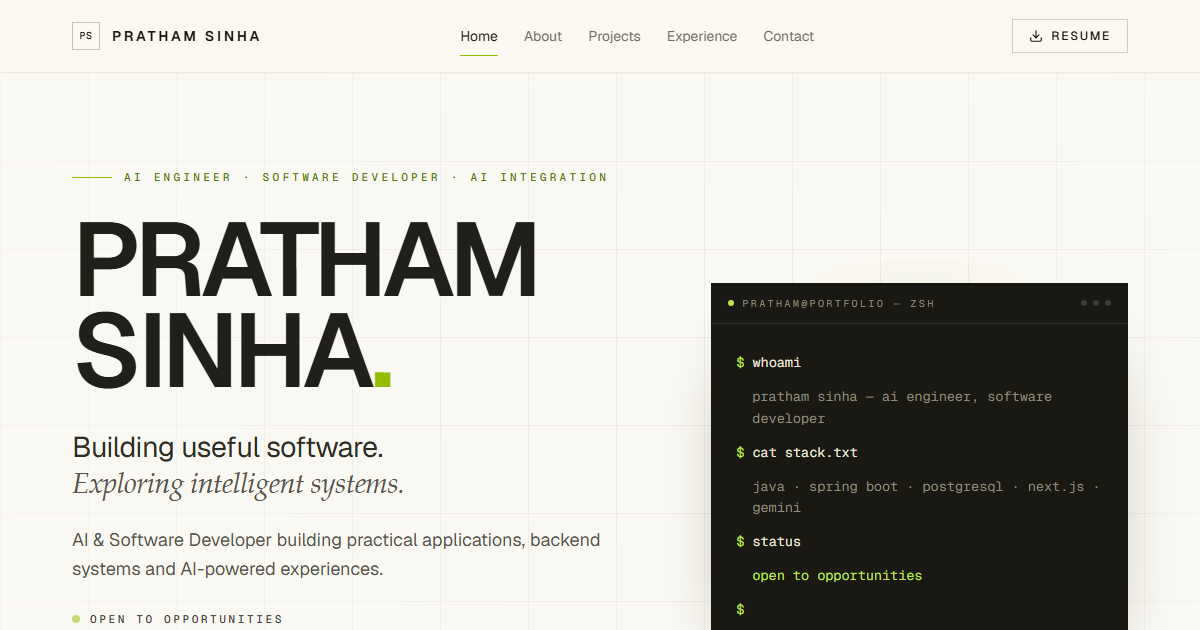
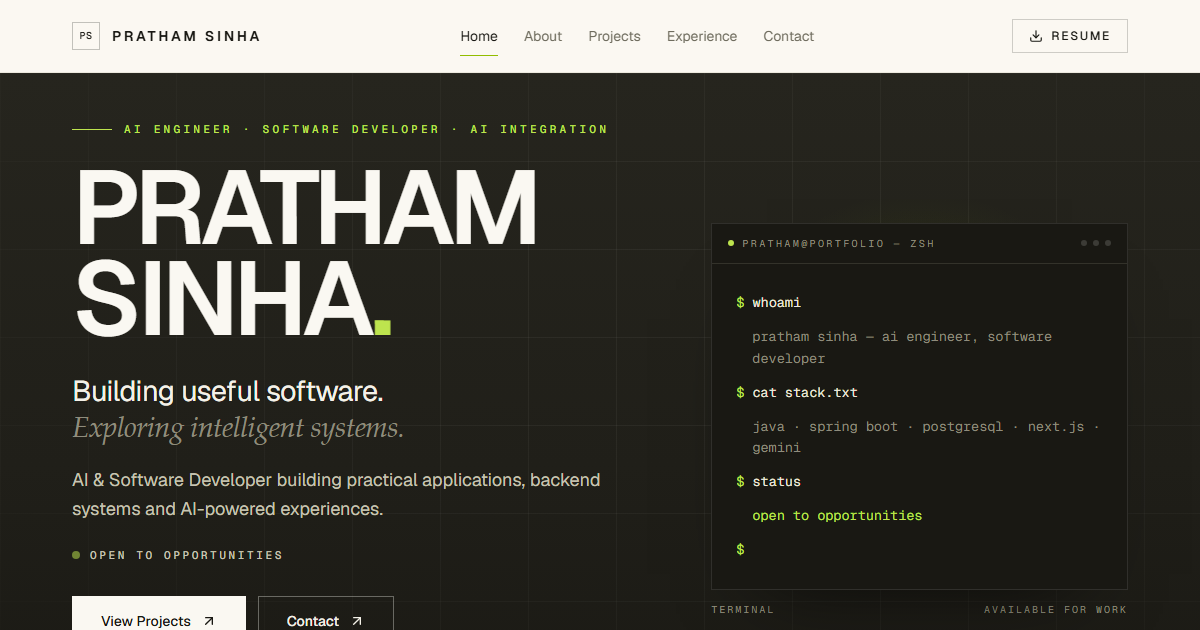
feat: fit hero to viewport and restyle it as a warm charcoal band
- Floor the hero at the viewport height minus the sticky navbar (calc(100svh - nav - 1px)) so the fold cuts exactly on its bottom edge; content starts 48px under the navbar (was 96px) and the focus strip pins to the fold

- Retheme only the hero to warm graphite (ink-850 to ink-950 tonal ramp) with ivory-on-dark type, lime accents and rule-dark hairlines; recolour the engineering grid for the dark plate and brighten the focus ring inside the hero

- Add a cursor-following radial spotlight (mouse only, off under reduced motion) plus refined hovers: terminal lifts 4px with a lime border glow, primary CTA inverts to lime, secondary fills ivory

- Tighten the eyebrow-to-CTA spacing rhythm; terminal keeps its transcript and gains dark-surface caption contrast

- Regenerate the OG card for the new hero and update the README design notes; verified 1440/1280/768/360: CTAs above fold, no overflow, no console errors, working anchors and resume download

diff --git a/src/components/sections/Hero.tsx b/src/components/sections/Hero.tsx
@@ -1,5 +1,7 @@
 "use client";
 
+import { useRef, useState } from "react";
+import type { PointerEvent as ReactPointerEvent } from "react";
 import { motion, useReducedMotion } from "motion/react";
 import { ArrowDown, ArrowUpRight, Download } from "lucide-react";
 
@@ -13,8 +15,17 @@ const EASE: [number, number, number, number] = [0.22, 1, 0.36, 1];
 /** Practice areas — the same domains the rest of the page documents. */
 const FOCUS_AREAS = ["Generative AI", "Backend systems", "Full-stack web"];
 
+/**
+ * Warm charcoal hero: the one dark band on the page. The sticky navbar sits
+ * above it in flow, so the section is floored at the viewport height minus
+ * the navbar (h-16 / sm:h-[4.5rem] plus its 1px rule) — the fold cuts exactly
+ * on the hero's bottom edge and the focus strip never spills past it.
+ */
 export default function Hero() {
   const reduceMotion = useReducedMotion();
+  const sectionRef = useRef<HTMLElement>(null);
+  const [spotEngaged, setSpotEngaged] = useState(false);
+
   const duration = reduceMotion ? 0 : 0.75;
 
   const rise = (delay: number) => ({
@@ -23,37 +34,72 @@ export default function Hero() {
     transition: { duration, delay: reduceMotion ? 0 : delay, ease: EASE },
   });
 
+  /* A quiet pool of light follows the pointer. Mouse only, and never under
+     reduced motion — the hero stays fully readable without it. */
+  const trackSpotlight = (event: ReactPointerEvent<HTMLElement>) => {
+    if (reduceMotion || event.pointerType !== "mouse") return;
+    const section = sectionRef.current;
+    if (!section) return;
+    const bounds = section.getBoundingClientRect();
+    section.style.setProperty("--spot-x", `${event.clientX - bounds.left}px`);
+    section.style.setProperty("--spot-y", `${event.clientY - bounds.top}px`);
+  };
+
+  const engageSpotlight = (event: ReactPointerEvent<HTMLElement>) => {
+    if (reduceMotion || event.pointerType !== "mouse") return;
+    setSpotEngaged(true);
+  };
+
+  const spotVisible = spotEngaged && !reduceMotion;
+
   return (
     <section
       id="home"
-      className="relative isolate overflow-hidden border-b border-rule-light bg-paper-50"
+      ref={sectionRef}
+      onPointerMove={trackSpotlight}
+      onPointerEnter={engageSpotlight}
+      onPointerLeave={() => setSpotEngaged(false)}
+      className="relative isolate flex min-h-[calc(100svh_-_4rem_-_1px)] flex-col overflow-hidden bg-[linear-gradient(180deg,var(--color-ink-850),var(--color-ink-900)_55%,var(--color-ink-950))] text-paper-100 sm:min-h-[calc(100svh_-_4.5rem_-_1px)]"
     >
-      {/* Fine engineering grid behind the editorial copy. */}
+      {/* Fine engineering grid, recoloured for the dark plate. */}
       <div
         aria-hidden="true"
         className="pointer-events-none absolute inset-0 hero-grid"
       />
 
-      <Container className="relative">
-        <div className="grid gap-12 pb-12 pt-14 sm:pt-16 lg:grid-cols-12 lg:items-center lg:gap-10 lg:pb-16 lg:pt-24">
+      {/* Cursor spotlight — a slow radial illumination, constrained here. */}
+      <div
+        aria-hidden="true"
+        data-spot=""
+        className={`pointer-events-none absolute inset-0 transition-opacity duration-700 ${
+          spotVisible ? "opacity-100" : "opacity-0"
+        }`}
+        style={{
+          background:
+            "radial-gradient(640px circle at var(--spot-x, 50%) var(--spot-y, 28%), rgba(255,251,238,0.06), rgba(146,189,0,0.045) 45%, transparent 72%)",
+        }}
+      />
+
+      <Container className="relative flex flex-1 flex-col pt-10 sm:pt-12">
+        <div className="grid gap-10 lg:grid-cols-12 lg:items-center lg:gap-10">
           {/* Editorial copy */}
           <div className="min-w-0 lg:col-span-7 lg:pr-8">
             <motion.p
               {...rise(0.05)}
-              className="flex items-center gap-3 font-mono text-[11px] font-medium uppercase tracking-[0.3em] text-accent-600"
+              className="flex items-center gap-3 font-mono text-[11px] font-medium uppercase tracking-[0.3em] text-accent-400"
             >
-              <span className="h-px w-10 bg-accent-500" aria-hidden="true" />
+              <span className="h-px w-10 bg-accent-400" aria-hidden="true" />
               {siteConfig.positioning}
             </motion.p>
 
             <motion.h1
               {...rise(0.15)}
-              className="mt-7 text-[clamp(2.75rem,9.5vw,6.5rem)] font-semibold uppercase leading-[0.88] tracking-[-0.045em]"
+              className="mt-6 text-[clamp(2.75rem,9.5vw,6.5rem)] font-semibold uppercase leading-[0.88] tracking-[-0.045em] text-paper-50"
             >
               <span className="block">Pratham</span>
               <span className="block">
                 Sinha
-                <span className="text-accent-500" aria-hidden="true">
+                <span className="text-accent-400" aria-hidden="true">
                   .
                 </span>
               </span>
@@ -61,36 +107,36 @@ export default function Hero() {
 
             <motion.p
               {...rise(0.3)}
-              className="mt-8 max-w-2xl text-[clamp(1.3rem,2.4vw,1.95rem)] leading-[1.25] tracking-[-0.02em] text-ink-800"
+              className="mt-7 max-w-2xl text-[clamp(1.3rem,2.4vw,1.95rem)] leading-[1.25] tracking-[-0.02em] text-paper-100"
             >
               <span className="block">{siteConfig.hero.headline[0]}</span>
-              <span className="block font-serif italic text-ink-600">
+              <span className="block font-serif italic text-ink-300">
                 {siteConfig.hero.headline[1]}
               </span>
             </motion.p>
 
             <motion.p
               {...rise(0.4)}
-              className="mt-6 max-w-xl text-base leading-relaxed text-ink-600 sm:text-lg"
+              className="mt-5 max-w-xl text-base leading-relaxed text-ink-200 sm:text-lg"
             >
               {siteConfig.hero.summary}
             </motion.p>
 
             <motion.p
               {...rise(0.5)}
-              className="mt-7 flex items-center gap-2.5 font-mono text-[11px] font-medium uppercase tracking-[0.24em] text-ink-700"
+              className="mt-6 flex items-center gap-2.5 font-mono text-[11px] font-medium uppercase tracking-[0.24em] text-ink-200"
             >
               <span
-                className="motion-safe:animate-pulse h-2 w-2 rounded-full bg-accent-500"
+                className="motion-safe:animate-pulse h-2 w-2 rounded-full bg-accent-400"
                 aria-hidden="true"
               />
               {siteConfig.hero.status}
             </motion.p>
 
-            <motion.div {...rise(0.6)} className="mt-9 flex flex-wrap gap-3">
+            <motion.div {...rise(0.6)} className="mt-8 flex flex-wrap gap-3">
               <a
                 href={siteConfig.hero.primaryCta.href}
-                className="group inline-flex items-center gap-2.5 border border-ink-950 bg-ink-950 px-6 py-3.5 text-sm font-medium text-paper-50 transition-colors duration-300 hover:border-accent-500 hover:bg-accent-500 hover:text-ink-950 sm:px-7"
+                className="group inline-flex items-center gap-2.5 border border-paper-50 bg-paper-50 px-6 py-3.5 text-sm font-medium text-ink-950 transition-colors duration-300 hover:border-accent-400 hover:bg-accent-400 sm:px-7"
               >
                 {siteConfig.hero.primaryCta.label}
                 <ArrowUpRight
@@ -100,7 +146,7 @@ export default function Hero() {
               </a>
               <a
                 href={siteConfig.hero.secondaryCta.href}
-                className="group inline-flex items-center gap-2.5 border border-ink-950/25 px-6 py-3.5 text-sm font-medium text-ink-950 transition-colors duration-300 hover:border-ink-950 hover:bg-ink-950 hover:text-paper-50 sm:px-7"
+                className="group inline-flex items-center gap-2.5 border border-paper-50/35 px-6 py-3.5 text-sm font-medium text-paper-100 transition-colors duration-300 hover:border-paper-50 hover:bg-paper-50 hover:text-ink-950 sm:px-7"
               >
                 {siteConfig.hero.secondaryCta.label}
                 <ArrowUpRight
@@ -114,7 +160,7 @@ export default function Hero() {
             <motion.nav
               {...rise(0.7)}
               aria-label="Profiles"
-              className="mt-9 flex flex-wrap items-center gap-x-7 gap-y-4 border-t border-rule-light pt-6"
+              className="mt-8 flex flex-wrap items-center gap-x-7 gap-y-4 border-t border-rule-dark pt-6"
             >
               {siteConfig.socials.map((social) => (
                 <a
@@ -122,7 +168,7 @@ export default function Hero() {
                   href={social.href}
                   target="_blank"
                   rel="noopener noreferrer"
-                  className="group/link inline-flex items-center gap-2 text-[11px] font-medium uppercase tracking-[0.18em] text-ink-700 transition-colors duration-300 hover:text-accent-600"
+                  className="group/link inline-flex items-center gap-2 text-[11px] font-medium uppercase tracking-[0.18em] text-ink-300 transition-colors duration-300 hover:text-accent-400"
                 >
                   <SocialIcon id={social.id} className="h-4 w-4" />
                   {social.label}
@@ -136,7 +182,7 @@ export default function Hero() {
               <a
                 href={siteConfig.resume.href}
                 download={siteConfig.resume.fileName}
-                className="group/link inline-flex items-center gap-2 text-[11px] font-medium uppercase tracking-[0.18em] text-ink-700 transition-colors duration-300 hover:text-accent-600"
+                className="group/link inline-flex items-center gap-2 text-[11px] font-medium uppercase tracking-[0.18em] text-ink-300 transition-colors duration-300 hover:text-accent-400"
               >
                 <Download className="h-4 w-4" aria-hidden="true" />
                 {siteConfig.resume.label}
@@ -144,22 +190,22 @@ export default function Hero() {
             </motion.nav>
           </div>
 
-          {/* Animated visual — stacks below the copy on mobile. */}
+          {/* Terminal — stacks below the copy on mobile. */}
           <div className="min-w-0 lg:col-span-5">
             <HeroTerminal />
           </div>
         </div>
 
-        {/* Hero footer strip */}
+        {/* Hero footer strip — anchored to the fold edge. */}
         <motion.div
           {...rise(0.85)}
-          className="flex flex-col gap-4 border-t border-rule-light py-6 sm:flex-row sm:items-center sm:justify-between"
+          className="mt-auto flex flex-col gap-4 border-t border-rule-dark pb-6 pt-6 sm:flex-row sm:items-center sm:justify-between"
         >
           <ul className="flex flex-wrap gap-x-6 gap-y-2">
             {FOCUS_AREAS.map((area) => (
               <li
                 key={area}
-                className="font-mono text-[11px] uppercase tracking-[0.2em] text-ink-400"
+                className="font-mono text-[11px] uppercase tracking-[0.2em] text-ink-300"
               >
                 {area}
               </li>
@@ -168,7 +214,7 @@ export default function Hero() {
 
           <a
             href="#about"
-            className="group inline-flex w-fit items-center gap-2 font-mono text-[11px] uppercase tracking-[0.2em] text-ink-400 transition-colors duration-300 hover:text-ink-950"
+            className="group inline-flex w-fit items-center gap-2 font-mono text-[11px] uppercase tracking-[0.2em] text-ink-300 transition-colors duration-300 hover:text-paper-50"
           >
             Scroll
             <ArrowDown

diff --git a/src/components/sections/HeroTerminal.tsx b/src/components/sections/HeroTerminal.tsx
@@ -50,7 +50,9 @@ export default function HeroTerminal() {
         className="pointer-events-none absolute -inset-6 -z-10 bg-[radial-gradient(60%_60%_at_50%_40%,rgba(146,189,0,0.16),transparent_70%)]"
       />
 
-      <div className="relative overflow-hidden border border-ink-950 bg-ink-950 shadow-[0_40px_80px_-56px_rgba(25,24,19,0.95)]">
+      {/* Inset plate on the dark hero: lifts a hair on hover, with a lime
+          border glow — no tilt, no drama. */}
+      <div className="relative overflow-hidden border border-white/10 bg-ink-950 shadow-[0_40px_80px_-56px_rgba(0,0,0,0.85)] transition-[transform,border-color,box-shadow] duration-300 hover:border-accent-400/40 hover:shadow-[0_48px_90px_-52px_rgba(0,0,0,0.95)] motion-safe:hover:-translate-y-1">
         {/* Window chrome */}
         <div className="flex items-center justify-between border-b border-rule-dark px-4 py-3">
           <span className="flex items-center gap-2 font-mono text-[10px] uppercase tracking-[0.24em] text-ink-300">
@@ -114,7 +116,7 @@ export default function HeroTerminal() {
         </div>
       </div>
 
-      <figcaption className="mt-3 flex items-center justify-between gap-3 font-mono text-[10px] uppercase tracking-[0.2em] text-ink-400">
+      <figcaption className="mt-3 flex items-center justify-between gap-3 font-mono text-[10px] uppercase tracking-[0.2em] text-ink-300">
         <span>Terminal</span>
         <span>Available for work</span>
       </figcaption>

diff --git a/src/app/globals.css b/src/app/globals.css
@@ -73,19 +73,24 @@
     outline: 2px solid var(--color-accent-600);
     outline-offset: 3px;
   }
+
+  /* The dark hero needs a brighter ring than the ivory page. */
+  #home :focus-visible {
+    outline-color: var(--color-accent-400);
+  }
 }
 
-/* Fine engineering grid used behind the hero. */
+/* Fine engineering grid used behind the dark hero — ivory lines at 5%. */
 @utility hero-grid {
   background-image:
     linear-gradient(
       to right,
-      color-mix(in srgb, #191813 5%, transparent) 1px,
+      color-mix(in srgb, #faf8f2 5%, transparent) 1px,
       transparent 1px
     ),
     linear-gradient(
       to bottom,
-      color-mix(in srgb, #191813 5%, transparent) 1px,
+      color-mix(in srgb, #faf8f2 5%, transparent) 1px,
       transparent 1px
     );
   background-size: 88px 88px;

diff --git a/README.md b/README.md
@@ -1,8 +1,9 @@
 # Pratham Sinha — Portfolio
 
 A single-page editorial portfolio for **Pratham Sinha — AI Engineer · Software
-Developer · AI Integration**. Warm ivory paper, charcoal typography, a
-restrained lime accent, large display type and a strict hairline grid.
+Developer · AI Integration**. A warm charcoal hero over warm ivory paper,
+charcoal typography, a restrained lime accent, large display type and a strict
+hairline grid.
 
 Built with **Next.js 16 (App Router) · TypeScript · Tailwind CSS 4 · Motion**.
 
@@ -10,7 +11,7 @@ Built with **Next.js 16 (App Router) · TypeScript · Tailwind CSS 4 · Motion**
 
 | # | Section | Source |
 | --- | --- | --- |
-| — | Hero — name, headline, status, CTAs, animated terminal | `src/components/sections/Hero.tsx` |
+| — | Hero — warm charcoal band: name, headline, status, CTAs, cursor spotlight, animated terminal | `src/components/sections/Hero.tsx` |
 | 01 | About | `src/components/sections/About.tsx` |
 | 02 | Featured projects (4, three distinct layouts) | `src/components/sections/Projects.tsx` |
 | 03 | Skills (6 categories, no proficiency levels) | `src/components/sections/Skills.tsx` |
@@ -78,8 +79,8 @@ SITE_URL=https://example.com npm run build
 Defined once in `src/app/globals.css`:
 
 - **Paper** `#faf8f2 → #ded9c9` — page surfaces
-- **Ink** `#191813 → #c7c4b4` — warm charcoal type scale (the footer is the one
-  deliberately dark surface)
+- **Ink** `#191813 → #c7c4b4` — warm charcoal type scale (the hero and footer
+  are the deliberately dark surfaces)
 - **Accent** `#d9f18f → #567a0d` — a restrained lime for rules, indices, links
   and the status marker
 - Hairline rules instead of pills and drop shadows; rectangular controls; the
